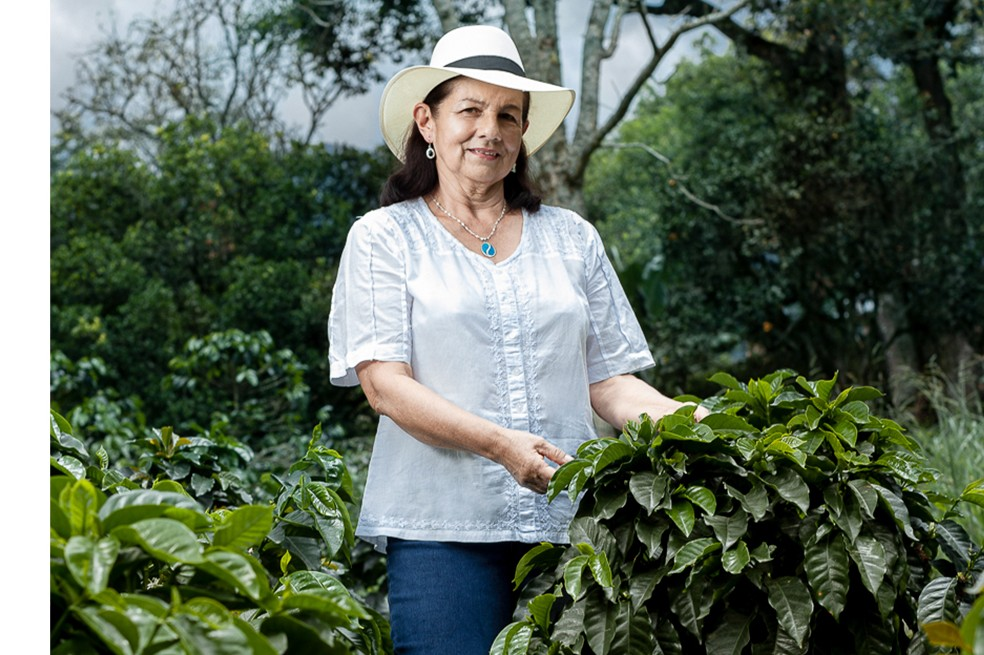
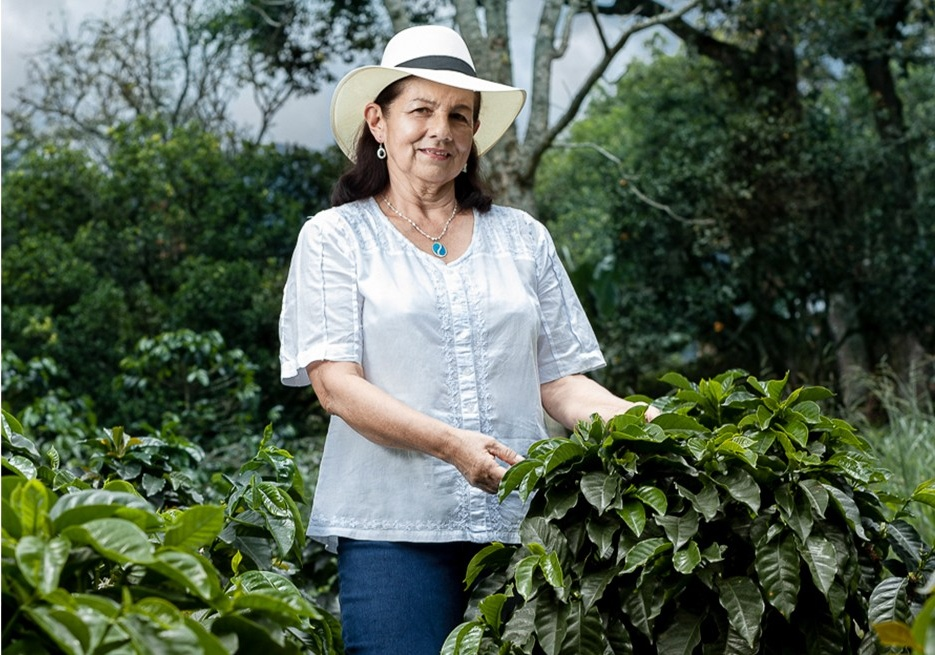
fix: corregir visibilidad boton menu celular, grilla catalogo y recorte de imagen

diff --git a/assets/css/style.css b/assets/css/style.css
@@ -109,9 +109,17 @@
     color:var(--blanco); padding:0.65rem 0; border-bottom:1px solid rgba(250,249,246,0.1);
   }
   .mobile-nav a.active{ color:var(--arena); font-weight:600; }
-  .mobile-nav .btn{
+  .mobile-nav .btn,
+  .mobile-nav a.btn-primary,
+  .mobile-nav .btn-primary{
     margin-top:1rem; font-size:0.85rem; padding:0.8rem 1.4rem;
     align-self:stretch; justify-content:center; text-align:center;
+    background:var(--crema) !important; color:var(--cafe-oscuro) !important;
+    border-bottom:none !important; font-weight:700;
+  }
+  .mobile-nav a.btn-primary:hover,
+  .mobile-nav .btn-primary:hover{
+    background:var(--arena) !important; color:var(--cafe-oscuro) !important;
   }
  
   header .header-actions .btn-header{ display:none; }
@@ -296,8 +304,8 @@
   .cafe-grid{
     display:grid; grid-template-columns:1fr; gap:2.6rem;
   }
-  @media (min-width:640px){ .cafe-grid{ grid-template-columns:1fr 1fr; } }
-  @media (min-width:1080px){ .cafe-grid{ grid-template-columns:repeat(4,1fr); } }
+  @media (min-width:640px){ .cafe-grid{ grid-template-columns:repeat(auto-fit, minmax(260px, 1fr)); } }
+  @media (min-width:1080px){ .cafe-grid{ grid-template-columns:repeat(auto-fit, minmax(260px, 1fr)); } }
  
   .cafe-card{ display:flex; flex-direction:column; }
   .cafe-photo{
@@ -523,8 +531,11 @@
 
   /* ---------- mejor visualización de imágenes ---------- */
   .cafe-photo img{
-    width:100%; height:100%; object-fit:contain; padding:1.2rem;
+    width:100%; height:100%; object-fit:cover; padding:0;
     transition:transform 0.4s ease;
+  }
+  .cafe-photo img[src*="bolsa-"]{
+    object-fit:contain; padding:1.2rem;
   }
   .cafe-card:hover .cafe-photo img{ transform:scale(1.06); }
   .filosofia-photo img, .voces-photo img, .historia-photo img{

diff --git a/assets/js/script.js b/assets/js/script.js
@@ -53,6 +53,12 @@ const productos = [
     intensidad: 0, precio: 120000, precioFmt: '$120.000', accent: '#4A382C',
     imagen: 'assets/images/gallery/tostadora-cafe.webp', badge: 'Accesorios'
   },
+  {
+    id: 'p8', categoria: 'accesorios', nombre: 'Prensa Francesa Émbolo Cristal', origen: 'Vidrio termorresistente y acero 304',
+    notas: ['Cuerpo denso y sedoso', 'Capacidad 600ml'], proceso: 'Inmersión Directa',
+    intensidad: 0, precio: 95000, precioFmt: '$95.000', accent: '#68705A',
+    imagen: 'assets/images/gallery/finca.jpg', badge: 'Accesorios'
+  },
 
   // --- SUSCRIPCIONES & KITS ---
   {
